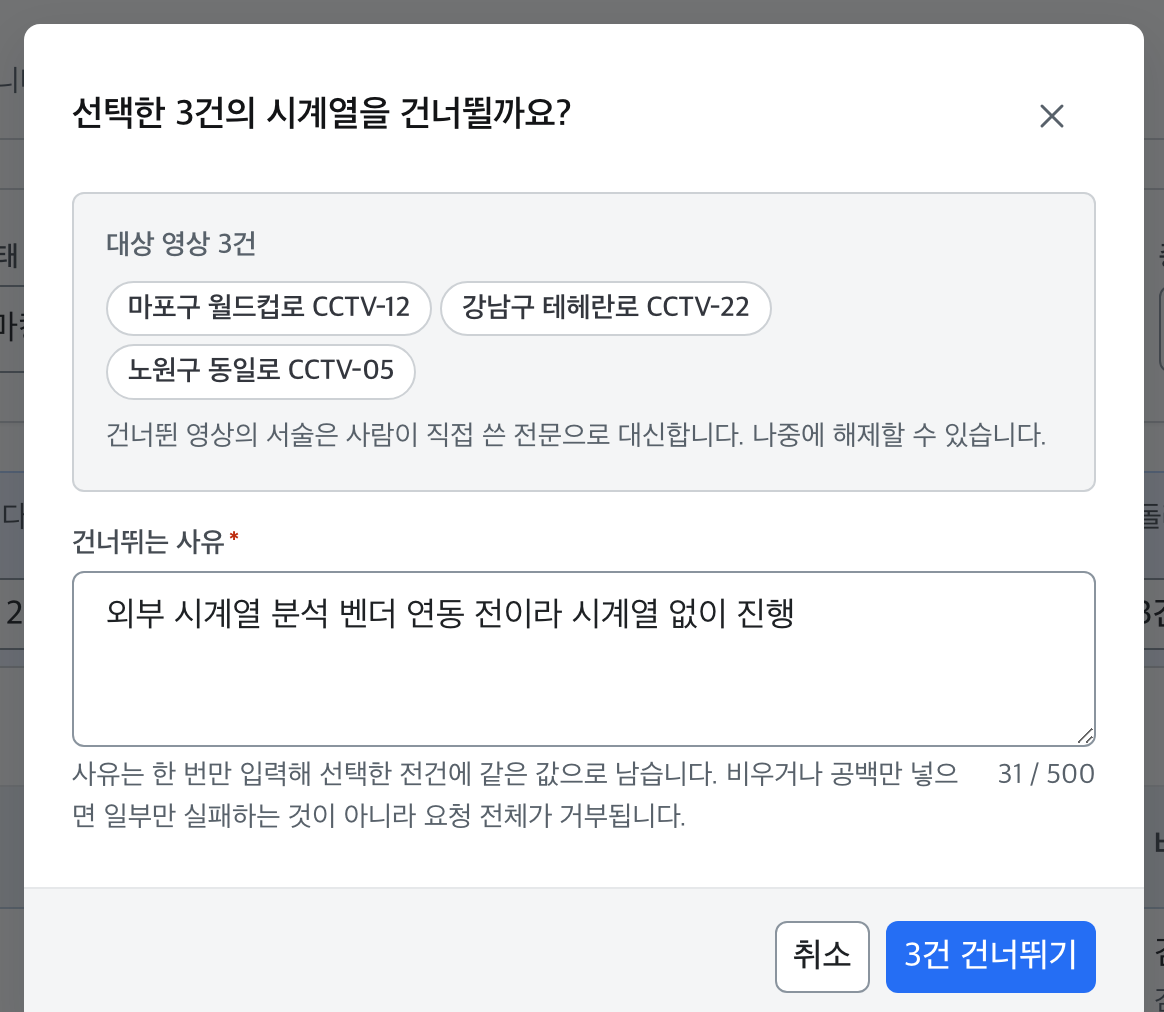
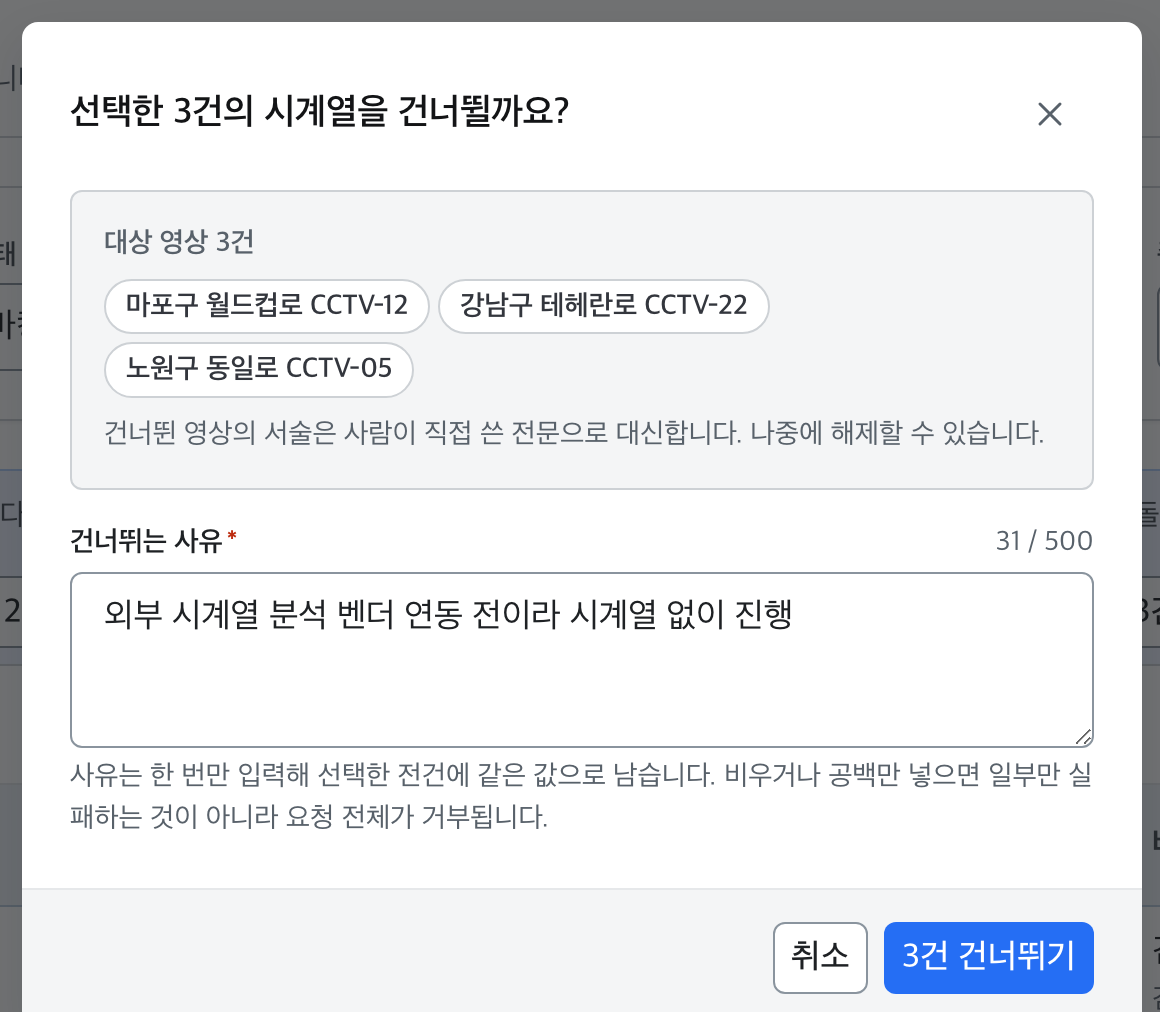
design(screen): 사유 입력의 글자수를 라벨 줄 오른쪽으로 옮긴다
도움말 아래에 두니 문구가 두 줄로 접히면서 숫자가 첫 줄 오른쪽에 홀로 떠 문단을
끊었다. 라벨 줄은 항상 한 줄이라 도움말이 길어져도 배치가 흔들리지 않는다.
단건 건너뛰기 다이얼로그 두 곳도 같은 배치로 맞췄다.

글자수는 라벨 밖 형제로 둔다. 안에 넣으면 스크린리더가 필드 이름을
「건너뛰는 사유 필수 31 / 500」으로 읽고 타이핑할 때마다 이름이 바뀐다.

설계 ITEM 은 글자수 위치를 규정하지 않아 시안만 고쳤다. 게시 렌더를 다시 올리고
미리보기 png 도 새로 뽑았다.

Generated with Claude Code

diff --git a/docs/screen-design/klid-authoring-screens/screens/SCREEN-009/design/design-main.html b/docs/screen-design/klid-authoring-screens/screens/SCREEN-009/design/design-main.html
@@ -1,5 +1,5 @@
 <!DOCTYPE html>
-<html><head><link rel="stylesheet" href="design-main.css"><meta charset="utf-8" /><link rel="stylesheet" href="design.css" /></head><body><main class="screen-root">
+<html><head><link rel="stylesheet" href="main.css"><meta charset="utf-8" /><link rel="stylesheet" href="design.css" /></head><body><main class="screen-root">
 
   
   <div class="page-head">
@@ -707,11 +707,13 @@
         </div>
         <p class="t-body-md dlg-desc">건너뛰면 이 영상의 서술은 사람이 직접 쓴 전문으로 대신합니다. 나중에 해제할 수 있습니다.</p>
         <div class="field">
-          <label class="t-label field-label" for="skip-reason-vlm">건너뛰는 사유 <span class="req" aria-hidden="true">*</span></label>
+          <div class="field-head">
+            <label class="t-label field-label" for="skip-reason-vlm">건너뛰는 사유 <span class="req" aria-hidden="true">*</span></label>
+            <span class="t-caption char-count">32 / 500</span>
+          </div>
           <textarea class="textarea" id="skip-reason-vlm" aria-describedby="skip-help-vlm" placeholder="예) 외부 시계열 분석 벤더 장애가 길어져 시계열 없이 진행">외부 시계열 분석 벤더 장애가 길어져 시계열 없이 진행</textarea>
           <div class="field-foot">
             <span class="t-caption field-help" id="skip-help-vlm">배치 이력에 그대로 남습니다. 나중에 시계열이 왜 비어 있는지 되짚는 근거가 됩니다.</span>
-            <span class="t-caption char-count">32 / 500</span>
           </div>
         </div>
       </div>
@@ -740,11 +742,13 @@
         </div>
         <p class="t-body-md dlg-desc">건너뛰어도 프레임은 그대로 남고, 작업자가 처음부터 라벨링합니다. 나중에 해제할 수 있습니다.</p>
         <div class="field">
-          <label class="t-label field-label" for="skip-reason-auto">건너뛰는 사유 <span class="req" aria-hidden="true">*</span></label>
+          <div class="field-head">
+            <label class="t-label field-label" for="skip-reason-auto">건너뛰는 사유 <span class="req" aria-hidden="true">*</span></label>
+            <span class="t-caption char-count">0 / 500</span>
+          </div>
           <textarea class="textarea" id="skip-reason-auto" aria-describedby="skip-help-auto" placeholder="예) 추론 서버 점검이 길어져 수동 라벨링으로 진행"></textarea>
           <div class="field-foot">
             <span class="t-caption field-help" id="skip-help-auto">배치 이력에 그대로 남습니다. 공백만으로는 저장되지 않습니다.</span>
-            <span class="t-caption char-count">0 / 500</span>
           </div>
         </div>
       </div>

diff --git a/docs/screen-design/klid-authoring-screens/screens/SCREEN-009/design/design.html b/docs/screen-design/klid-authoring-screens/screens/SCREEN-009/design/design.html
@@ -706,11 +706,13 @@
         </div>
         <p class="t-body-md dlg-desc">건너뛰면 이 영상의 서술은 사람이 직접 쓴 전문으로 대신합니다. 나중에 해제할 수 있습니다.</p>
         <div class="field">
-          <label class="t-label field-label" for="skip-reason-vlm">건너뛰는 사유 <span class="req" aria-hidden="true">*</span></label>
+          <div class="field-head">
+            <label class="t-label field-label" for="skip-reason-vlm">건너뛰는 사유 <span class="req" aria-hidden="true">*</span></label>
+            <span class="t-caption char-count">32 / 500</span>
+          </div>
           <textarea class="textarea" id="skip-reason-vlm" aria-describedby="skip-help-vlm" placeholder="예) 외부 시계열 분석 벤더 장애가 길어져 시계열 없이 진행">외부 시계열 분석 벤더 장애가 길어져 시계열 없이 진행</textarea>
           <div class="field-foot">
             <span class="t-caption field-help" id="skip-help-vlm">배치 이력에 그대로 남습니다. 나중에 시계열이 왜 비어 있는지 되짚는 근거가 됩니다.</span>
-            <span class="t-caption char-count">32 / 500</span>
           </div>
         </div>
       </div>
@@ -739,11 +741,13 @@
         </div>
         <p class="t-body-md dlg-desc">건너뛰어도 프레임은 그대로 남고, 작업자가 처음부터 라벨링합니다. 나중에 해제할 수 있습니다.</p>
         <div class="field">
-          <label class="t-label field-label" for="skip-reason-auto">건너뛰는 사유 <span class="req" aria-hidden="true">*</span></label>
+          <div class="field-head">
+            <label class="t-label field-label" for="skip-reason-auto">건너뛰는 사유 <span class="req" aria-hidden="true">*</span></label>
+            <span class="t-caption char-count">0 / 500</span>
+          </div>
           <textarea class="textarea" id="skip-reason-auto" aria-describedby="skip-help-auto" placeholder="예) 추론 서버 점검이 길어져 수동 라벨링으로 진행"></textarea>
           <div class="field-foot">
             <span class="t-caption field-help" id="skip-help-auto">배치 이력에 그대로 남습니다. 공백만으로는 저장되지 않습니다.</span>
-            <span class="t-caption char-count">0 / 500</span>
           </div>
         </div>
       </div>

diff --git a/docs/screen-design/klid-authoring-screens/screens/SCREEN-008/design/design-main.html b/docs/screen-design/klid-authoring-screens/screens/SCREEN-008/design/design-main.html
@@ -1,5 +1,5 @@
 <!DOCTYPE html>
-<html><head><link rel="stylesheet" href="design-main.css"><meta charset="utf-8" /><link rel="stylesheet" href="design.css" /></head><body><main class="screen-root">
+<html><head><link rel="stylesheet" href="main.css"><meta charset="utf-8" /><link rel="stylesheet" href="design.css" /></head><body><main class="screen-root">
 
   
   <div class="page-head-row">
@@ -582,11 +582,13 @@
         </div>
 
         <div class="field">
-          <label class="t-label" for="bulk-skip-reason">건너뛰는 사유<span class="req" aria-hidden="true">*</span><span class="visually-hidden">필수</span></label>
+          <div class="field-head">
+            <label class="t-label" for="bulk-skip-reason">건너뛰는 사유<span class="req" aria-hidden="true">*</span><span class="visually-hidden">필수</span></label>
+            <span class="t-caption char-count">31 / 500</span>
+          </div>
           <textarea class="textarea" id="bulk-skip-reason" aria-describedby="bulk-skip-help" placeholder="예) 외부 시계열 분석 벤더 연동 전이라 시계열 없이 진행">외부 시계열 분석 벤더 연동 전이라 시계열 없이 진행</textarea>
           <div class="field-foot">
             <span class="t-caption field-help" id="bulk-skip-help">사유는 한 번만 입력해 선택한 전건에 같은 값으로 남습니다. 비우거나 공백만 넣으면 일부만 실패하는 것이 아니라 요청 전체가 거부됩니다.</span>
-            <span class="t-caption char-count">31 / 500</span>
           </div>
         </div>
       </div>

diff --git a/docs/screen-design/klid-authoring-screens/screens/SCREEN-008/design/design.html b/docs/screen-design/klid-authoring-screens/screens/SCREEN-008/design/design.html
@@ -581,11 +581,13 @@
         </div>
 
         <div class="field">
-          <label class="t-label" for="bulk-skip-reason">건너뛰는 사유<span class="req" aria-hidden="true">*</span><span class="visually-hidden">필수</span></label>
+          <div class="field-head">
+            <label class="t-label" for="bulk-skip-reason">건너뛰는 사유<span class="req" aria-hidden="true">*</span><span class="visually-hidden">필수</span></label>
+            <span class="t-caption char-count">31 / 500</span>
+          </div>
           <textarea class="textarea" id="bulk-skip-reason" aria-describedby="bulk-skip-help" placeholder="예) 외부 시계열 분석 벤더 연동 전이라 시계열 없이 진행">외부 시계열 분석 벤더 연동 전이라 시계열 없이 진행</textarea>
           <div class="field-foot">
             <span class="t-caption field-help" id="bulk-skip-help">사유는 한 번만 입력해 선택한 전건에 같은 값으로 남습니다. 비우거나 공백만 넣으면 일부만 실패하는 것이 아니라 요청 전체가 거부됩니다.</span>
-            <span class="t-caption char-count">31 / 500</span>
           </div>
         </div>
       </div>

diff --git a/docs/screen-design/klid-authoring-screens/screens/SCREEN-009/design/design-main.css b/docs/screen-design/klid-authoring-screens/screens/SCREEN-009/design/design-main.css
@@ -593,6 +593,10 @@ a.btn, a.btn:hover { text-decoration: none; }
 }
 .textarea::placeholder { color: var(--n-5); }
 .textarea:hover { border-color: var(--n-5); }
+
+/* 사유 입력 — 글자수는 라벨 줄 오른쪽에 둔다. 도움말이 두 줄로 접혀도 숫자가
+   문단 중간에 뜨지 않는다. 라벨 밖 형제라 필드 이름에 섞여 읽히지 않는다. */
+.field-head { display: flex; align-items: baseline; justify-content: space-between; gap: var(--sp-md); }
 .field-foot { display: flex; align-items: baseline; justify-content: space-between; gap: var(--sp-md); }
 .field-help { color: var(--n-6); flex: 1 1 auto; min-width: 0; }
 /* 글자 수는 줄바꿈되지 않게 고정폭으로 둔다 — 도움말과 겹쳐 읽히던 것을 실렌더에서 발견 */

diff --git a/docs/screen-design/klid-authoring-screens/screens/SCREEN-009/design/design.css b/docs/screen-design/klid-authoring-screens/screens/SCREEN-009/design/design.css
@@ -593,6 +593,10 @@ a.btn, a.btn:hover { text-decoration: none; }
 }
 .textarea::placeholder { color: var(--n-5); }
 .textarea:hover { border-color: var(--n-5); }
+
+/* 사유 입력 — 글자수는 라벨 줄 오른쪽에 둔다. 도움말이 두 줄로 접혀도 숫자가
+   문단 중간에 뜨지 않는다. 라벨 밖 형제라 필드 이름에 섞여 읽히지 않는다. */
+.field-head { display: flex; align-items: baseline; justify-content: space-between; gap: var(--sp-md); }
 .field-foot { display: flex; align-items: baseline; justify-content: space-between; gap: var(--sp-md); }
 .field-help { color: var(--n-6); flex: 1 1 auto; min-width: 0; }
 /* 글자 수는 줄바꿈되지 않게 고정폭으로 둔다 — 도움말과 겹쳐 읽히던 것을 실렌더에서 발견 */

diff --git a/docs/screen-design/klid-authoring-screens/screens/SCREEN-008/design/design-main.css b/docs/screen-design/klid-authoring-screens/screens/SCREEN-008/design/design-main.css
@@ -589,5 +589,9 @@ svg { stroke-linecap: round; stroke-linejoin: round; }
 }
 .textarea::placeholder { color: var(--n-5); }
 .textarea:hover { border-color: var(--n-5); }
+
+/* 사유 입력 — 글자수는 라벨 줄 오른쪽에 둔다. 도움말이 두 줄로 접혀도 숫자가
+   문단 중간에 뜨지 않는다. 라벨 밖 형제라 필드 이름에 섞여 읽히지 않는다. */
+.field-head { display: flex; align-items: baseline; justify-content: space-between; gap: var(--sp-md); }
 .field-foot { display: flex; align-items: baseline; justify-content: space-between; gap: var(--sp-md); }
 .char-count { color: var(--n-6); font-variant-numeric: tabular-nums; flex: 0 0 auto; white-space: nowrap; }

diff --git a/docs/screen-design/klid-authoring-screens/screens/SCREEN-008/design/design.css b/docs/screen-design/klid-authoring-screens/screens/SCREEN-008/design/design.css
@@ -589,5 +589,9 @@ svg { stroke-linecap: round; stroke-linejoin: round; }
 }
 .textarea::placeholder { color: var(--n-5); }
 .textarea:hover { border-color: var(--n-5); }
+
+/* 사유 입력 — 글자수는 라벨 줄 오른쪽에 둔다. 도움말이 두 줄로 접혀도 숫자가
+   문단 중간에 뜨지 않는다. 라벨 밖 형제라 필드 이름에 섞여 읽히지 않는다. */
+.field-head { display: flex; align-items: baseline; justify-content: space-between; gap: var(--sp-md); }
 .field-foot { display: flex; align-items: baseline; justify-content: space-between; gap: var(--sp-md); }
 .char-count { color: var(--n-6); font-variant-numeric: tabular-nums; flex: 0 0 auto; white-space: nowrap; }

diff --git a/docs/screen-design/klid-authoring-screens/screens/SCREEN-008/design/design-notes.md b/docs/screen-design/klid-authoring-screens/screens/SCREEN-008/design/design-notes.md
@@ -103,6 +103,8 @@ generated_by: mc-logi-screen-design (Phase 2~3만 수행)
 
 ---
 
+- **사유 입력의 글자수는 라벨 줄 오른쪽에 둔다**(`.field-head`) — 도움말 아래에 두면 문구가 두 줄로 접히면서 숫자가 첫 줄 오른쪽에 홀로 떠 문단을 끊는다. 라벨 줄은 항상 한 줄이라 도움말 길이와 무관하게 배치가 안정적이다. ⚠ 글자수를 `<label>` **안**에 넣지 말 것 — 스크린리더가 필드 이름을 「건너뛰는 사유 필수 31 / 500」으로 읽고 타이핑할 때마다 이름이 바뀐다. 라벨 밖 형제로 둔다. 단건 건너뛰기 다이얼로그 2곳도 같은 배치로 통일했다.
+
 ## § 컴포넌트 · 토큰 매핑
 
 | 화면 영역 | 컴포넌트 (ui-catalog) | 주요 토큰 (design-system) | 비고 |

diff --git a/docs/screen-design/klid-authoring-screens/screens/SCREEN-009/design/design-notes.md b/docs/screen-design/klid-authoring-screens/screens/SCREEN-009/design/design-notes.md
@@ -68,6 +68,8 @@
 
 ---
 
+- **사유 입력의 글자수는 라벨 줄 오른쪽에 둔다**(`.field-head`) — 도움말 아래에 두면 문구가 두 줄로 접히면서 숫자가 첫 줄 오른쪽에 홀로 떠 문단을 끊는다. 라벨 줄은 항상 한 줄이라 도움말 길이와 무관하게 배치가 안정적이다. ⚠ 글자수를 `<label>` **안**에 넣지 말 것 — 스크린리더가 필드 이름을 「건너뛰는 사유 필수 31 / 500」으로 읽고 타이핑할 때마다 이름이 바뀐다. 라벨 밖 형제로 둔다. 단건 건너뛰기 다이얼로그 2곳도 같은 배치로 통일했다.
+
 ## § 디자인 결정 (골격이 규정하지 않은 부분)
 
 ### 1. 사유는 '서버 문구를 그대로 두는 자리'로 보이게 만들었다
